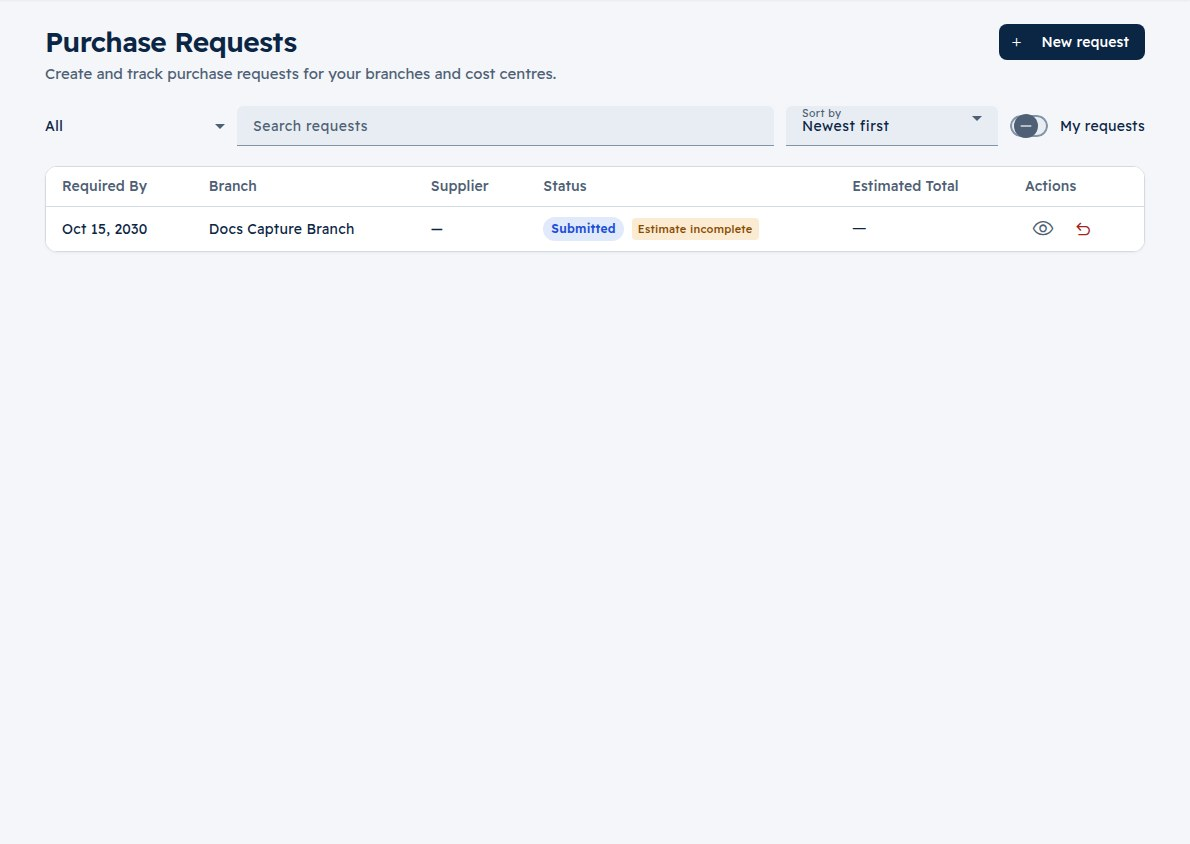
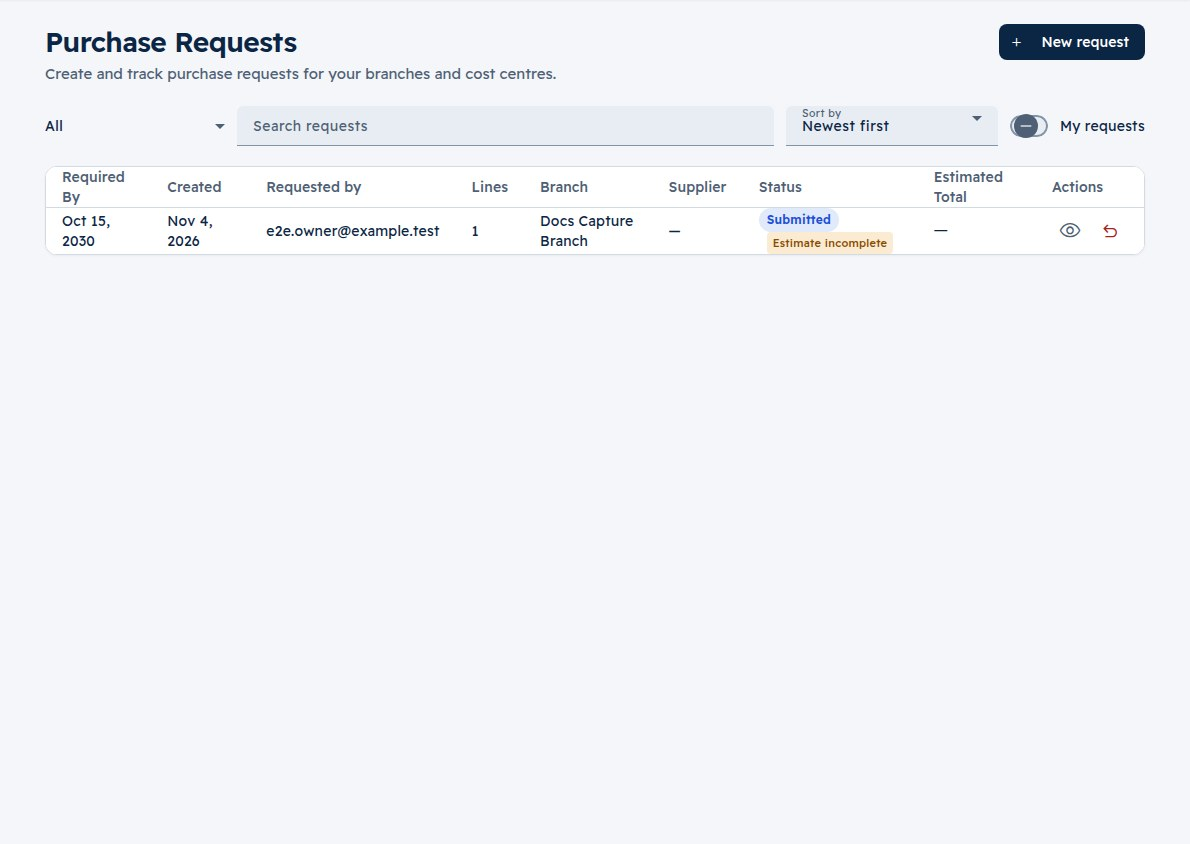
feat(requests): requester, dates and history on the request page; Created, Requested by and Lines list columns (P-169) (#513)
* checkpoint before dispatch

* checkpoint: view leftovers before decider-accuracy delta

* feat(requests): requester, dates and history on the request page; Created, Requested by and Lines list columns (P-169, PPS-193)

* docs(screenshots): the empty purchase-requests page shows the Created, Requested by and Lines columns

---------

Changed region(s): [[0.0311, 0.1848, 0.9328, 0.3081]]

diff --git a/apps/web/src/app/features/requests/request-form/request-form.component.spec.ts b/apps/web/src/app/features/requests/request-form/request-form.component.spec.ts
@@ -10,6 +10,7 @@ import { BehaviorSubject, of, Subject, throwError } from 'rxjs';
 
 import enCatalog from '../../../../../../../packages/i18n/en.json';
 import arCatalog from '../../../../../../../packages/i18n/ar.json';
+import { FormatService } from '../../../core/format/format.service';
 import { ApiService } from '../../../core/api/api.service';
 import type { BranchList, CostCentre, Member, Product, PurchaseRequest } from '../../../core/api/models';
 import { OrganisationApiService } from '../../settings/organisation-api';
@@ -130,6 +131,114 @@ describe('RequestFormComponent — create mode (T017)', () => {
     fixture.detectChanges();
   });
 
+  describe('PPS-193 view leftovers', () => {
+    function show(request: PurchaseRequest): HTMLElement {
+      requestsApi.getRequest.and.returnValue(of(request));
+      routeParams.next(convertToParamMap({ id: `${request.id}-${request.status}-${request.requester_name}-${request.requester_email}-${TestBed.inject(TranslateService).getCurrentLang()}` }));
+      fixture.detectChanges();
+      return fixture.nativeElement as HTMLElement;
+    }
+
+    it('renders details in drafts and read-only requests with name, email and missing requester fallbacks', () => {
+      for (const status of ['draft', 'submitted'] as const) {
+        for (const [name, email, expected] of [
+          ['Mona', 'mona@example.com', 'Mona'],
+          ['', 'mona@example.com', 'mona@example.com'],
+          ['', '', '—'],
+        ]) {
+          const root = show({ ...mockRequest, status, requester_name: name, requester_email: email,
+            submitted_at: status === 'submitted' ? '2026-08-24T12:00:00Z' : null });
+          const details = root.querySelector('.request-details');
+          expect(details?.textContent).toContain('Details');
+          expect(details?.querySelector('[dir="auto"]')?.textContent?.trim()).toBe(expected);
+          expect(details?.textContent).toContain('Requested by');
+          expect(details?.textContent).toContain('Created');
+          expect(details?.querySelector('time')?.getAttribute('datetime')).toBe(mockRequest.created_at);
+          expect(details?.querySelectorAll('time').length).toBe(status === 'submitted' ? 2 : 1);
+          expect(details?.textContent).toContain(TestBed.inject(FormatService).formatDate(mockRequest.created_at));
+        }
+      }
+    });
+
+    it('renders only timestamped history in chronological order with approval comment and decider in en and ar', () => {
+      const translate = TestBed.inject(TranslateService);
+      translate.setTranslation('ar', arCatalog);
+      for (const locale of ['en', 'ar']) {
+        translate.use(locale);
+        const root = show({ ...mockRequest, status: 'ordered', requester_name: 'Mona',
+          submitted_at: '2026-08-24T12:00:00Z', withdrawn_at: '2026-08-26T12:00:00Z',
+          delivered_at: '2026-08-25T12:00:00Z',
+          approval_step: { id: 'a', assigned_membership_id: 'm2', source: 'owner_fallback',
+            status: 'approved', decided_by_membership_id: 'm2', decided_at: '2026-08-24T13:00:00Z',
+            assigned_name: 'Ali', assigned_email: 'ali@example.com', comment: 'Within budget' } });
+        const history = root.querySelector('ol.request-history');
+        expect(history?.getAttribute('aria-label')).toBe(locale === 'en' ? 'History' : 'السجل');
+        const rows = Array.from(history?.querySelectorAll('li') ?? []);
+        expect(rows.length).toBe(5);
+        expect(rows[0]?.textContent).toContain(locale === 'en' ? 'Created' : 'تم الإنشاء');
+        expect(rows[0]?.textContent).toContain('Mona');
+        expect(rows[2]?.textContent).toContain(locale === 'en' ? 'Approval approved' : 'تمت الموافقة');
+        expect(rows[2]?.textContent).toContain('Ali');
+        expect(rows[2]?.textContent).toContain('Within budget');
+        expect(rows.map(row => row.querySelector('time')?.getAttribute('datetime'))).toEqual([
+          mockRequest.created_at, '2026-08-24T12:00:00Z', '2026-08-24T13:00:00Z',
+          '2026-08-25T12:00:00Z', '2026-08-26T12:00:00Z',
+        ]);
+      }
+    });
+
+    for (const status of ['approved', 'rejected'] as const) {
+      for (const [scenario, decider] of [
+        ['assigned approver', 'm2'],
+        ['delegate', 'm3'],
+        ['missing decider', undefined],
+      ] as const) {
+        for (const name of ['Ali', '']) {
+          it(`shows the correct history actor for ${status}, ${scenario}, name="${name}"`, () => {
+            const timestamp = '2026-08-24T13:00:00Z';
+            const root = show({ ...mockRequest, status, approval_step: {
+              id: 'a', assigned_membership_id: 'm2', source: 'owner_fallback', status,
+              decided_by_membership_id: decider, decided_at: timestamp,
+              assigned_name: name, assigned_email: 'ali@example.com', comment: 'Decision comment',
+            } });
+            const row = root.querySelectorAll('.request-history li')[1];
+            expect(row).toBeDefined();
+            const actor = row?.querySelector('span[dir="auto"]');
+            if (decider === 'm2') {
+              expect(actor?.textContent?.trim()).toBe(name || 'ali@example.com');
+            } else {
+              expect(actor).toBeNull();
+            }
+            expect(row?.querySelector('p')?.textContent).toBe('Decision comment');
+            expect(row?.querySelector('time')?.getAttribute('datetime')).toBe(timestamp);
+            expect(row?.querySelector('time')?.textContent).toContain(
+              TestBed.inject(FormatService).formatDate(timestamp),
+            );
+          });
+        }
+      }
+    }
+
+    it('omits absent events and clears details and history when navigating to a new request', () => {
+      const root = show({ ...mockRequest, status: 'ordered', approval_step: {
+        id: 'a', assigned_membership_id: 'm2', source: 'owner_fallback', status: 'approved',
+      } });
+      expect(root.querySelectorAll('.request-history li').length).toBe(1);
+      component.existingRequest.set({ ...mockRequest, status: 'rejected', approval_step: {
+        id: 'a', assigned_membership_id: 'm2', source: 'owner_fallback', status: 'rejected',
+        decided_by_membership_id: 'm2', decided_at: '2026-08-24T12:00:00Z', assigned_email: 'ali@example.com',
+      } });
+      fixture.detectChanges();
+      expect(root.querySelectorAll('.request-history li').length).toBe(2);
+      expect(root.querySelector('.request-history')?.textContent).toContain('Approval rejected');
+      expect(root.querySelector('.request-history')?.textContent).toContain('ali@example.com');
+      routeParams.next(convertToParamMap({}));
+      fixture.detectChanges();
+      expect(root.querySelector('.request-details')).toBeNull();
+      expect(root.querySelector('.request-history')).toBeNull();
+    });
+  });
+
   describe('PPS-167 self approval marker', () => {
     for (const locale of ['en', 'ar']) {
       for (const status of ['pending', 'approved', 'rejected'] as const) {
@@ -176,7 +285,6 @@ describe('RequestFormComponent — create mode (T017)', () => {
       }
     }
   });
-
   describe('PPS-193 pack hints and Save and submit', () => {
     const product: Product = {
       id: 'wp1', tenant_name: 'Flour', canonical_name: 'Flour', base_unit: 'kg',

diff --git a/apps/web/src/app/features/requests/request-list/request-list.component.spec.ts b/apps/web/src/app/features/requests/request-list/request-list.component.spec.ts
@@ -13,6 +13,7 @@ import { BehaviorSubject, Observable, Subject, of, throwError } from 'rxjs';
 
 import arCatalog from '../../../../../../../packages/i18n/ar.json';
 import enCatalog from '../../../../../../../packages/i18n/en.json';
+import { FormatService } from '../../../core/format/format.service';
 import { ApiService } from '../../../core/api/api.service';
 import { SessionService } from '../../../core/auth/session.service';
 import type { Branch, BranchList, Me, PurchaseRequest, Role } from '../../../core/api/models';
@@ -111,6 +112,32 @@ describe('RequestListComponent (T017)', () => {
     fixture.detectChanges();
   });
 
+  it('PPS-193 renders Created, Requested by and Lines columns with requester fallbacks in en and ar', () => {
+    const translate = TestBed.inject(TranslateService);
+    translate.setTranslation('ar', arCatalog);
+    component.requests.set([
+      { ...mockRequests[0], requester_name: 'Mona', requester_email: 'mona@example.com',
+        lines: [{ id: 'l1', workspace_product_id: 'p1', quantity: '2',
+          quoted_prices_include_vat: false, quoted_vat_rate: null, quoted_net_unit_price: null }] },
+      { ...mockRequests[1], requester_email: 'ali@example.com' },
+      { ...mockRequests[0], id: 'r3' },
+    ]);
+    for (const locale of ['en', 'ar']) {
+      translate.use(locale);
+      fixture.detectChanges();
+      const root = fixture.nativeElement as HTMLElement;
+      expect(root.querySelector('th.mat-column-created')?.textContent?.trim()).toBe(locale === 'en' ? 'Created' : 'تاريخ الإنشاء');
+      expect(root.querySelector('th.mat-column-requester')?.textContent?.trim()).toBe(locale === 'en' ? 'Requested by' : 'مقدّم الطلب');
+      expect(root.querySelector('th.mat-column-lines')?.textContent?.trim()).toBe(locale === 'en' ? 'Lines' : 'البنود');
+      const names = Array.from(root.querySelectorAll('td.mat-column-requester'));
+      expect(names.map(cell => cell.textContent?.trim())).toEqual(['Mona', 'ali@example.com', '—']);
+      expect(names.every(cell => cell.getAttribute('dir') === 'auto')).toBeTrue();
+      expect(root.querySelector('td.mat-column-created')?.textContent?.trim()).toBe(
+        TestBed.inject(FormatService).formatDate(mockRequests[0].created_at));
+      expect(Array.from(root.querySelectorAll('td.mat-column-lines')).map(cell => cell.textContent?.trim())).toEqual(['1', '0', '0']);
+    }
+  });
+
   it('should load requests on init', () => {
     expect(requestsApi.listRequests).toHaveBeenCalledWith({ status: undefined });
     expect(organisationApi.listBranches).toHaveBeenCalledWith({ limit: 100 });
@@ -138,7 +165,7 @@ describe('RequestListComponent (T017)', () => {
   });
 
   it('renders a Supplier column placed after Branch, showing source.supplier_name or —', () => {
-    expect(component.displayedColumns).toEqual([
+    expect(component.displayedColumns.filter(column => !['created', 'requester', 'lines'].includes(column))).toEqual([
       'requiredByDate',
       'branch',
       'supplier',

diff --git a/apps/web/src/app/features/requests/request-form/request-form.component.html b/apps/web/src/app/features/requests/request-form/request-form.component.html
@@ -19,6 +19,28 @@
     }
   </div>
 
+  @if (existingRequest(); as req) {
+    <section class="request-details">
+      <h2>{{ 'requests.details.title' | translate }}</h2>
+      <dl>
+        <div>
+          <dt>{{ 'requests.details.requester' | translate }}</dt>
+          <dd dir="auto">{{ req.requester_name || req.requester_email || ('requests.details.unavailable' | translate) }}</dd>
+        </div>
+        <div>
+          <dt>{{ 'requests.details.created' | translate }}</dt>
+          <dd><time [attr.datetime]="req.created_at">{{ req.created_at | formatDate }}</time></dd>
+        </div>
+        @if (req.submitted_at) {
+          <div>
+            <dt>{{ 'requests.details.submitted' | translate }}</dt>
+            <dd><time [attr.datetime]="req.submitted_at">{{ req.submitted_at | formatDate }}</time></dd>
+          </div>
+        }
+      </dl>
+    </section>
+  }
+
   @if (duplicateSourceStatus(); as status) {
     <div class="duplicate-banner" role="status">
       {{ 'requests.duplicate.banner' | translate: { status: ('requests.status.' + status | translate) } }}
@@ -435,5 +457,20 @@
         </div>
       </form>
     </mat-card>
+  }
+  @if (existingRequest()) {
+    <section>
+      <h2>{{ 'requests.history.title' | translate }}</h2>
+      <ol class="request-history" [attr.aria-label]="'requests.history.title' | translate">
+        @for (event of history(); track event.key) {
+          <li>
+            <span>{{ 'requests.history.' + event.key | translate }}</span>
+            @if (event.actor) { <span dir="auto">{{ event.actor }}</span> }
+            <time [attr.datetime]="event.timestamp">{{ event.timestamp | formatDate }}</time>
+            @if (event.comment) { <p dir="auto">{{ event.comment }}</p> }
+          </li>
+        }
+      </ol>
+    </section>
   }
 </div>

diff --git a/apps/web/src/app/features/requests/request-form/request-form.component.ts b/apps/web/src/app/features/requests/request-form/request-form.component.ts
@@ -154,6 +154,24 @@ export class RequestFormComponent implements OnInit {
   readonly existingRequest = signal<PurchaseRequest | null>(null);
   readonly isEditMode = signal<boolean>(false);
 
+  readonly history = computed(() => {
+    const req = this.existingRequest();
+    const events: { key: string; timestamp: string; actor?: string; comment?: string | null }[] = [];
+    if (!req) return events;
+    if (req.created_at) events.push({ key: 'created', timestamp: req.created_at,
+      actor: req.requester_name || req.requester_email || undefined });
+    if (req.submitted_at) events.push({ key: 'submitted', timestamp: req.submitted_at });
+    const approval = req.approval_step;
+    if (approval?.decided_at && (approval.status === 'approved' || approval.status === 'rejected')) {
+      events.push({ key: approval.status, timestamp: approval.decided_at,
+        actor: approval.decided_by_membership_id === approval.assigned_membership_id
+          ? approval.assigned_name || approval.assigned_email || undefined : undefined, comment: approval.comment });
+    }
+    if (req.withdrawn_at) events.push({ key: 'withdrawn', timestamp: req.withdrawn_at });
+    if (req.delivered_at) events.push({ key: 'delivered', timestamp: req.delivered_at });
+    return events.sort((a, b) => Date.parse(a.timestamp) - Date.parse(b.timestamp));
+  });
+
   readonly allocations = signal<RequestAllocation | null>(null);
   readonly isAllocationsLoading = signal<boolean>(false);
   readonly allocationsFailed = signal<boolean>(false);

diff --git a/apps/web/src/app/features/requests/request-list/request-list.component.html b/apps/web/src/app/features/requests/request-list/request-list.component.html
@@ -107,6 +107,21 @@
             </td>
           </ng-container>
 
+          <ng-container matColumnDef="created">
+            <th mat-header-cell *matHeaderCellDef>{{ 'requests.columns.created' | translate }}</th>
+            <td mat-cell *matCellDef="let req"><time [attr.datetime]="req.created_at">{{ formatCreated(req.created_at) }}</time></td>
+          </ng-container>
+
+          <ng-container matColumnDef="requester">
+            <th mat-header-cell *matHeaderCellDef>{{ 'requests.columns.requester' | translate }}</th>
+            <td mat-cell *matCellDef="let req" dir="auto">{{ req.requester_name || req.requester_email || ('requests.details.unavailable' | translate) }}</td>
+          </ng-container>
+
+          <ng-container matColumnDef="lines">
+            <th mat-header-cell *matHeaderCellDef>{{ 'requests.columns.lines' | translate }}</th>
+            <td mat-cell *matCellDef="let req">{{ req.lines.length }}</td>
+          </ng-container>
+
           <ng-container matColumnDef="branch">
             <th mat-header-cell *matHeaderCellDef>
               {{ 'requests.columns.branch' | translate }}

diff --git a/apps/web/src/app/features/requests/requests-api.ts b/apps/web/src/app/features/requests/requests-api.ts
@@ -8,13 +8,13 @@ import type {
   PurchaseRequestLine,
   PurchaseRequestCreate,
   PurchaseRequestList,
-  PurchaseRequestStatus as BasePurchaseRequestStatus,
+  PurchaseRequestStatus,
   PurchaseRequestUpdate,
   RequestGroupSummary,
   RequestSource,
 } from '../../core/api/models';
 
-export type PurchaseRequestStatus = BasePurchaseRequestStatus | 'delivered';
+export type { PurchaseRequestStatus };
 
 export type PurchaseRequestSort =
   | 'created_desc'
@@ -49,7 +49,7 @@ export class RequestsApiService {
     sort?: PurchaseRequestSort;
     mine?: boolean;
   }): Observable<PurchaseRequestList> {
-    return this.api.listRequests(params as Parameters<ApiService['listRequests']>[0]);
+    return this.api.listRequests(params);
   }
 
   getRequest(requestId: string): Observable<PurchaseRequest> {

diff --git a/apps/web/src/app/features/requests/request-form/request-form.component.scss b/apps/web/src/app/features/requests/request-form/request-form.component.scss
@@ -432,3 +432,44 @@
   mat-icon { flex-shrink: 0; }
   p { margin-block: 0.25rem 0; }
 }
+
+.request-details dl {
+  display: flex;
+  flex-wrap: wrap;
+  gap: 1rem 2rem;
+}
+
+.request-details dd {
+  margin-inline: 0;
+  overflow-wrap: anywhere;
+}
+
+.request-details dt,
+.request-history time {
+  color: var(--pp-text-muted);
+}
+
+.request-history {
+  padding-inline-start: 1.5rem;
+  list-style-type: decimal;
+
+  li {
+    padding-inline-start: 0.5rem;
+    margin-block-end: 0.75rem;
+    overflow-wrap: anywhere;
+  }
+
+  li::marker {
+    color: var(--pp-text-strong);
+    font-weight: 600;
+  }
+
+  span + span, time {
+    margin-inline-start: 0.75rem;
+  }
+
+  p {
+    margin-block: 0.25rem 0;
+    white-space: pre-wrap;
+  }
+}

diff --git a/apps/web/src/app/features/requests/request-list/request-list.component.ts b/apps/web/src/app/features/requests/request-list/request-list.component.ts
@@ -142,6 +142,9 @@ export class RequestListComponent implements OnInit {
 
   readonly displayedColumns: readonly string[] = [
     'requiredByDate',
+    'created',
+    'requester',
+    'lines',
     'branch',
     'supplier',
     'status',
@@ -286,6 +289,10 @@ export class RequestListComponent implements OnInit {
   
   navigateToCreateOrder(request: PurchaseRequest): void {
     this.router.navigate(['/orders/new'], { queryParams: { source_request_id: request.id } });
+  }
+
+  formatCreated(value: string): string {
+    return this.formatService.formatDate(value);
   }
 
   formatRequiredBy(value: string | null | undefined): string {

diff --git a/apps/web/src/app/core/api/models.ts b/apps/web/src/app/core/api/models.ts
@@ -1464,6 +1464,7 @@ export interface BranchRoleAssignmentCreate {
 // --- requests + approvals (008) ---------------------------------------------
 
 export type PurchaseRequestStatus =
+  | 'delivered'
   | 'draft'
   | 'submitted'
   | 'approved'
@@ -1568,6 +1569,7 @@ export interface PurchaseRequest {
   readonly approval_step?: ApprovalStep | null;
   readonly submitted_at?: string | null;
   readonly withdrawn_at?: string | null;
+  readonly delivered_at?: string | null;
   readonly created_at: string;
   readonly updated_at?: string;
 }

diff --git a/apps/web/src/app/features/requests/request-list/request-list.component.scss b/apps/web/src/app/features/requests/request-list/request-list.component.scss
@@ -272,3 +272,14 @@ td.date-cell {
 .clear-filter-btn {
   margin-block-start: 0.5rem;
 }
+
+@media (max-width: 767px) {
+  .mat-column-created,
+  .mat-column-requester,
+  .mat-column-lines,
+  .mat-column-branch,
+  .mat-column-supplier,
+  .mat-column-estimatedTotal {
+    display: none;
+  }
+}
